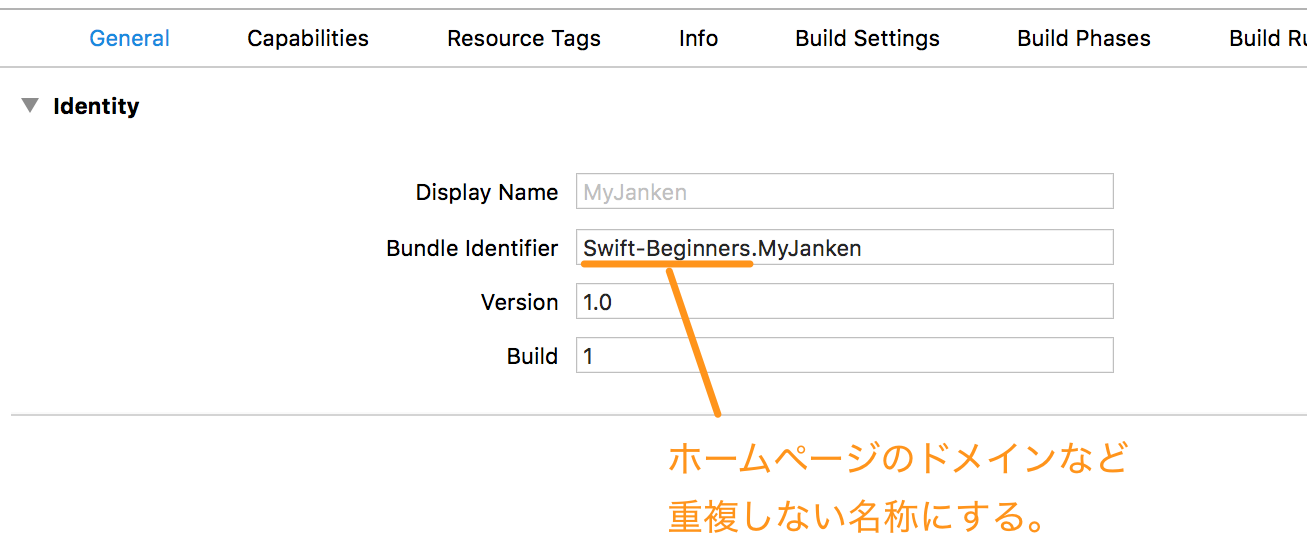
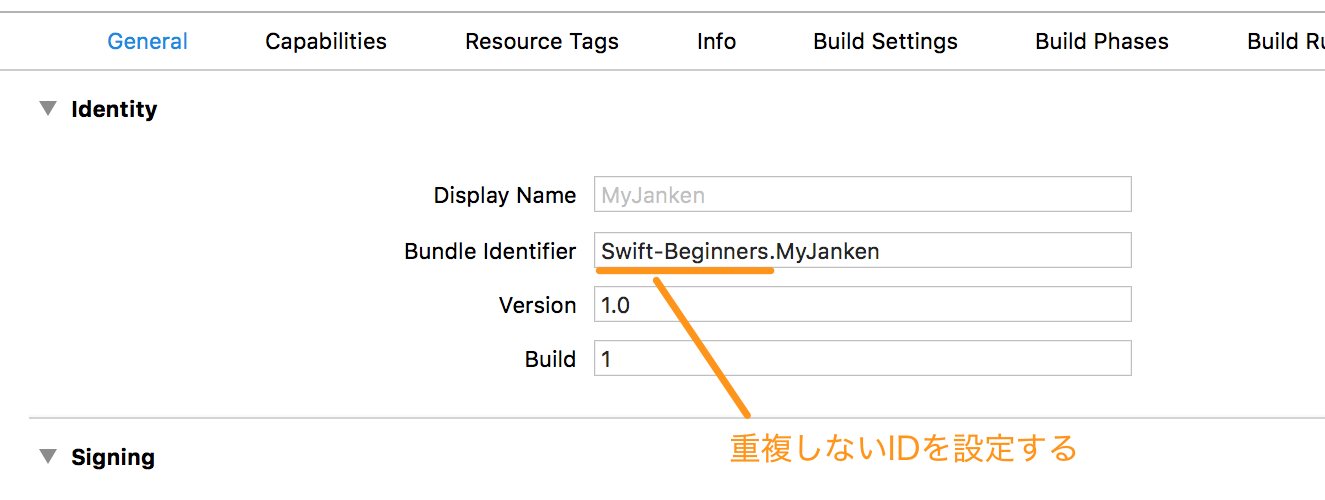
テキスト追加

diff --git a/simulator/build_failed.md b/simulator/build_failed.md
@@ -1,6 +1,6 @@
 # 転送時に「Build Failed」と表示される。Bundle identifierが重複している場合
 
-## エラーの内容を確認してきます
+## エラーの内容を確認します
 
 iPhoneアプリの転送時に「Build Failed」と表示されて、iPhoneへのアプリ転送が失敗する場合には、Bundle identifierが重複している場合があります。
 次の手順で確認してみてください。
@@ -29,4 +29,5 @@ The app ID "Swift-Beginners.MyJanken" cannot be registered to your development t
 
 <img src="images/simulator_00002.png" alt="［Bundle identifier］の設定を変更">
 
-［Bundle identifier］が、書籍の「Swift-Beginners」のままになっていないか確認してください。まだ、アプリを公開していない開発環境でも［Bundle identifier］は重複しないIDである必要があります。ホームページのドメインなど重複しない名称にする必要があります。
+［Bundle identifier］が、書籍の「Swift-Beginners」のままになっていないか確認してください。まだ、アプリを公開していない開発環境でも［Bundle identifier］は重複しないIDである必要があります。  
+Apple IDやホームページのドメインなど重複しない名称を設定する必要があります。
